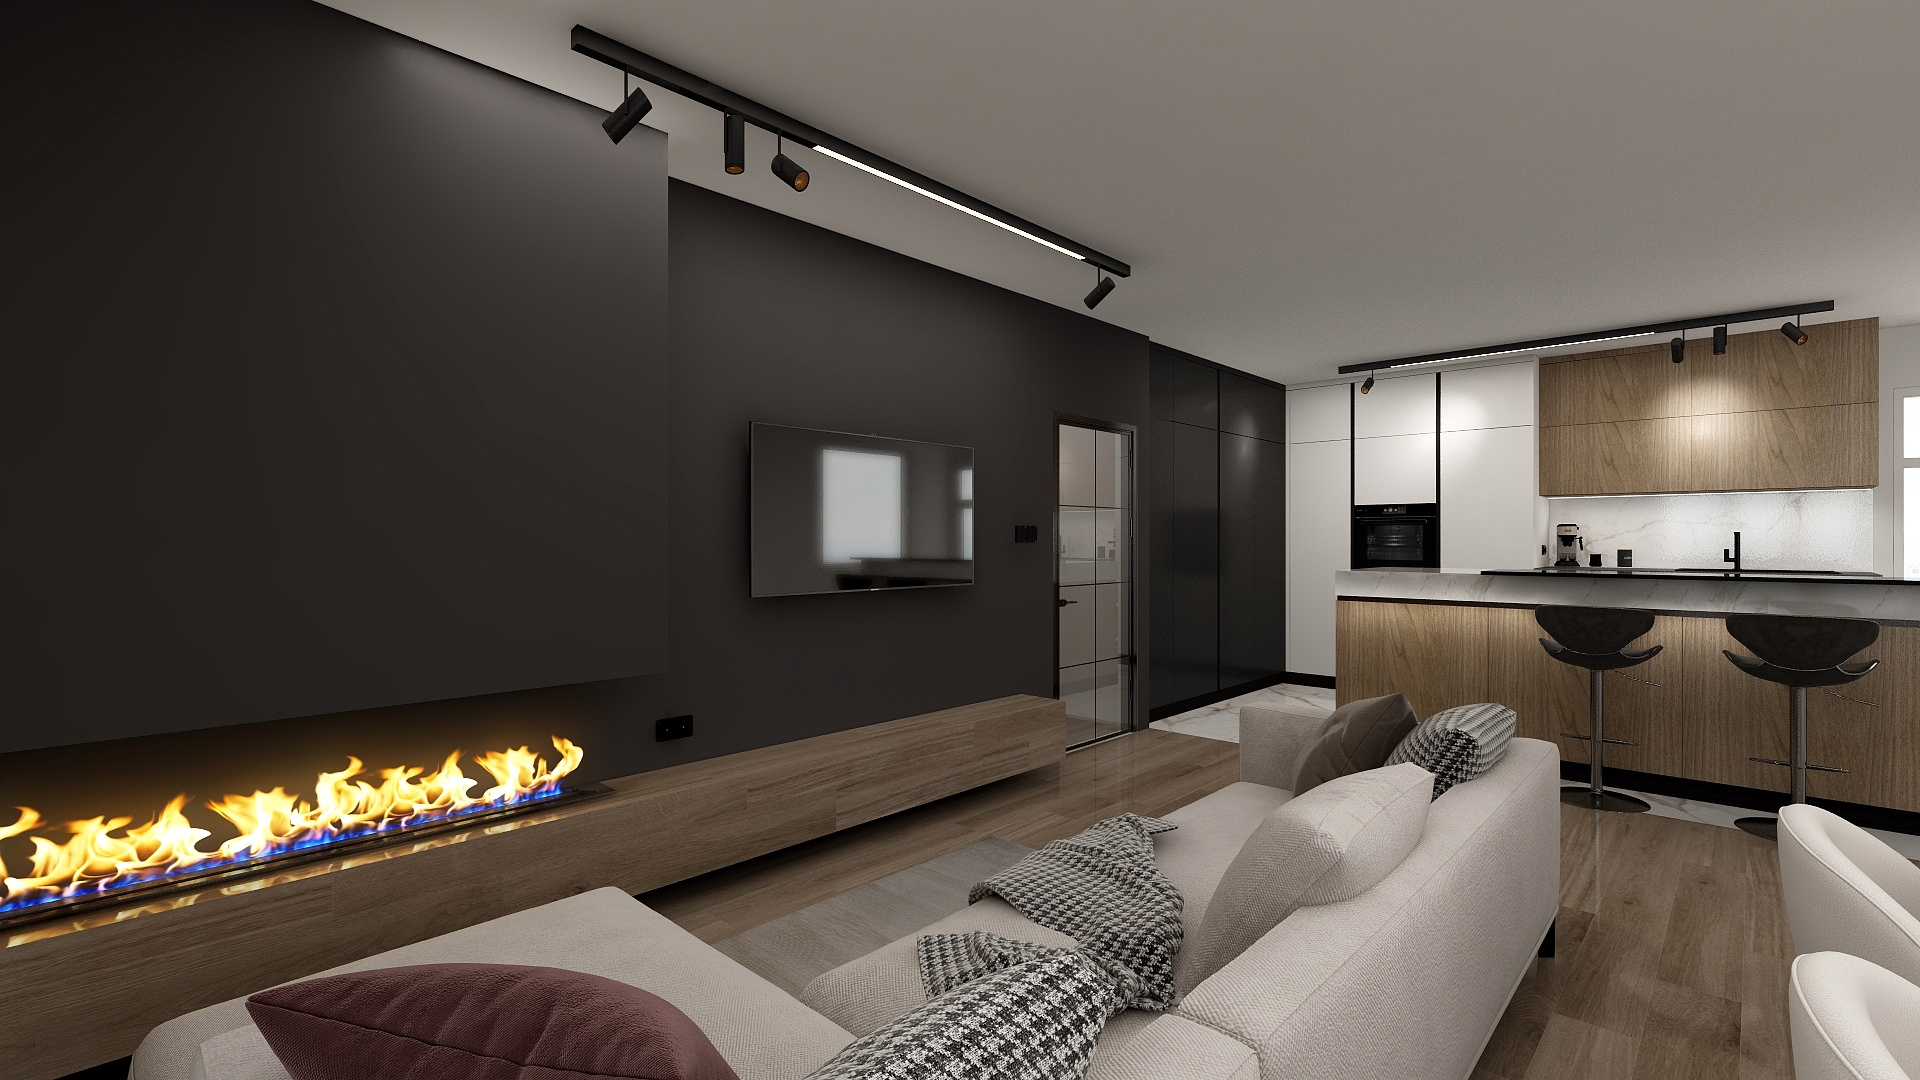
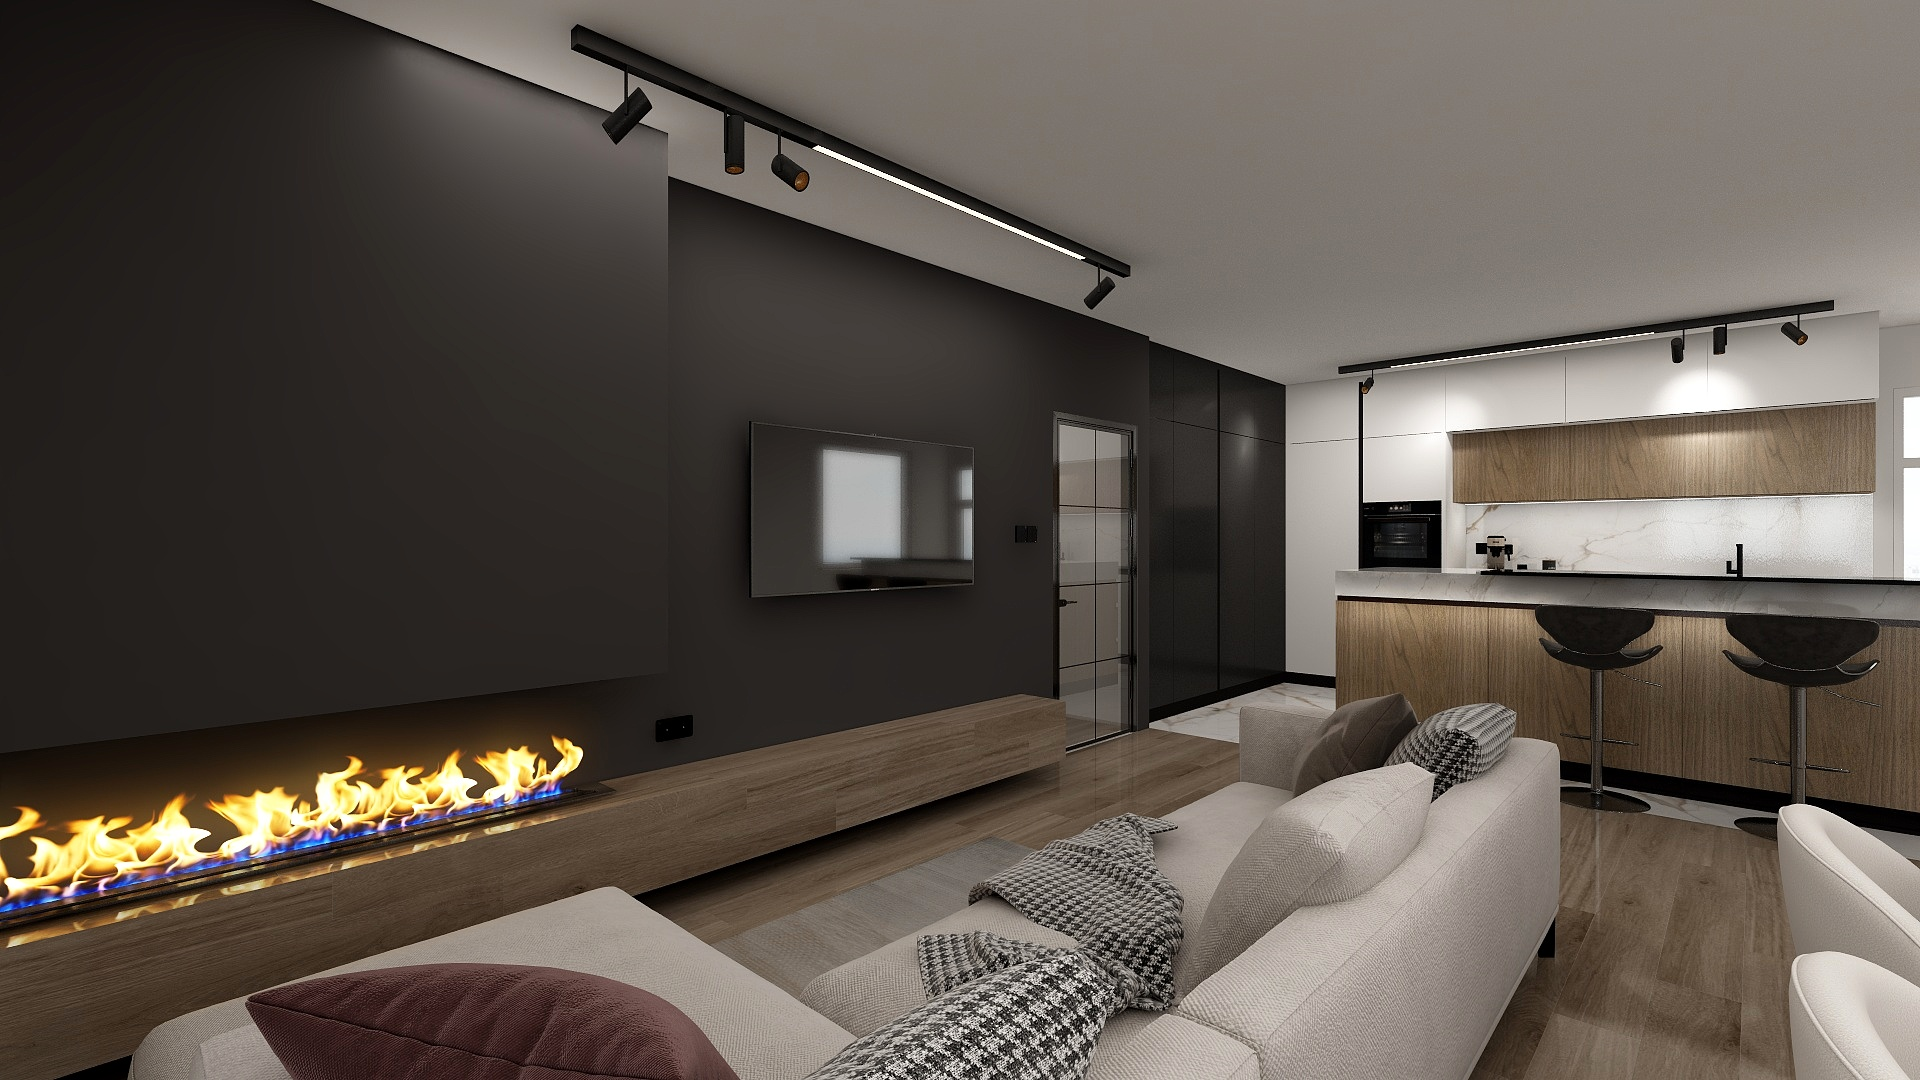
Update kitchen images

Changed region(s): [[0.6875, 0.275, 1.0, 0.55], [0.5312, 0.3667, 0.5938, 0.5194], [0.875, 0.9778, 0.9062, 1.0]]

diff --git a/docs/src/rooms/kitchen.md b/docs/src/rooms/kitchen.md
@@ -65,5 +65,5 @@ Následující obrazky slouží jako inspirace pro design kuchyně.
 ![Kitchen side](../static/img/kitchen/kitchen.side.alt.jpg){ width="45%" }
 ![Kitchen side](../static/img/kitchen/kitchen.front.jpg){ width="45%" }
 ![Kitchen side](../static/img/kitchen/kitchen.wall.jpg){ width="45%" }
-
+![Kitchen side](../static/img/kitchen/kitchen.all.view.jpg){ width="45%" }
 
